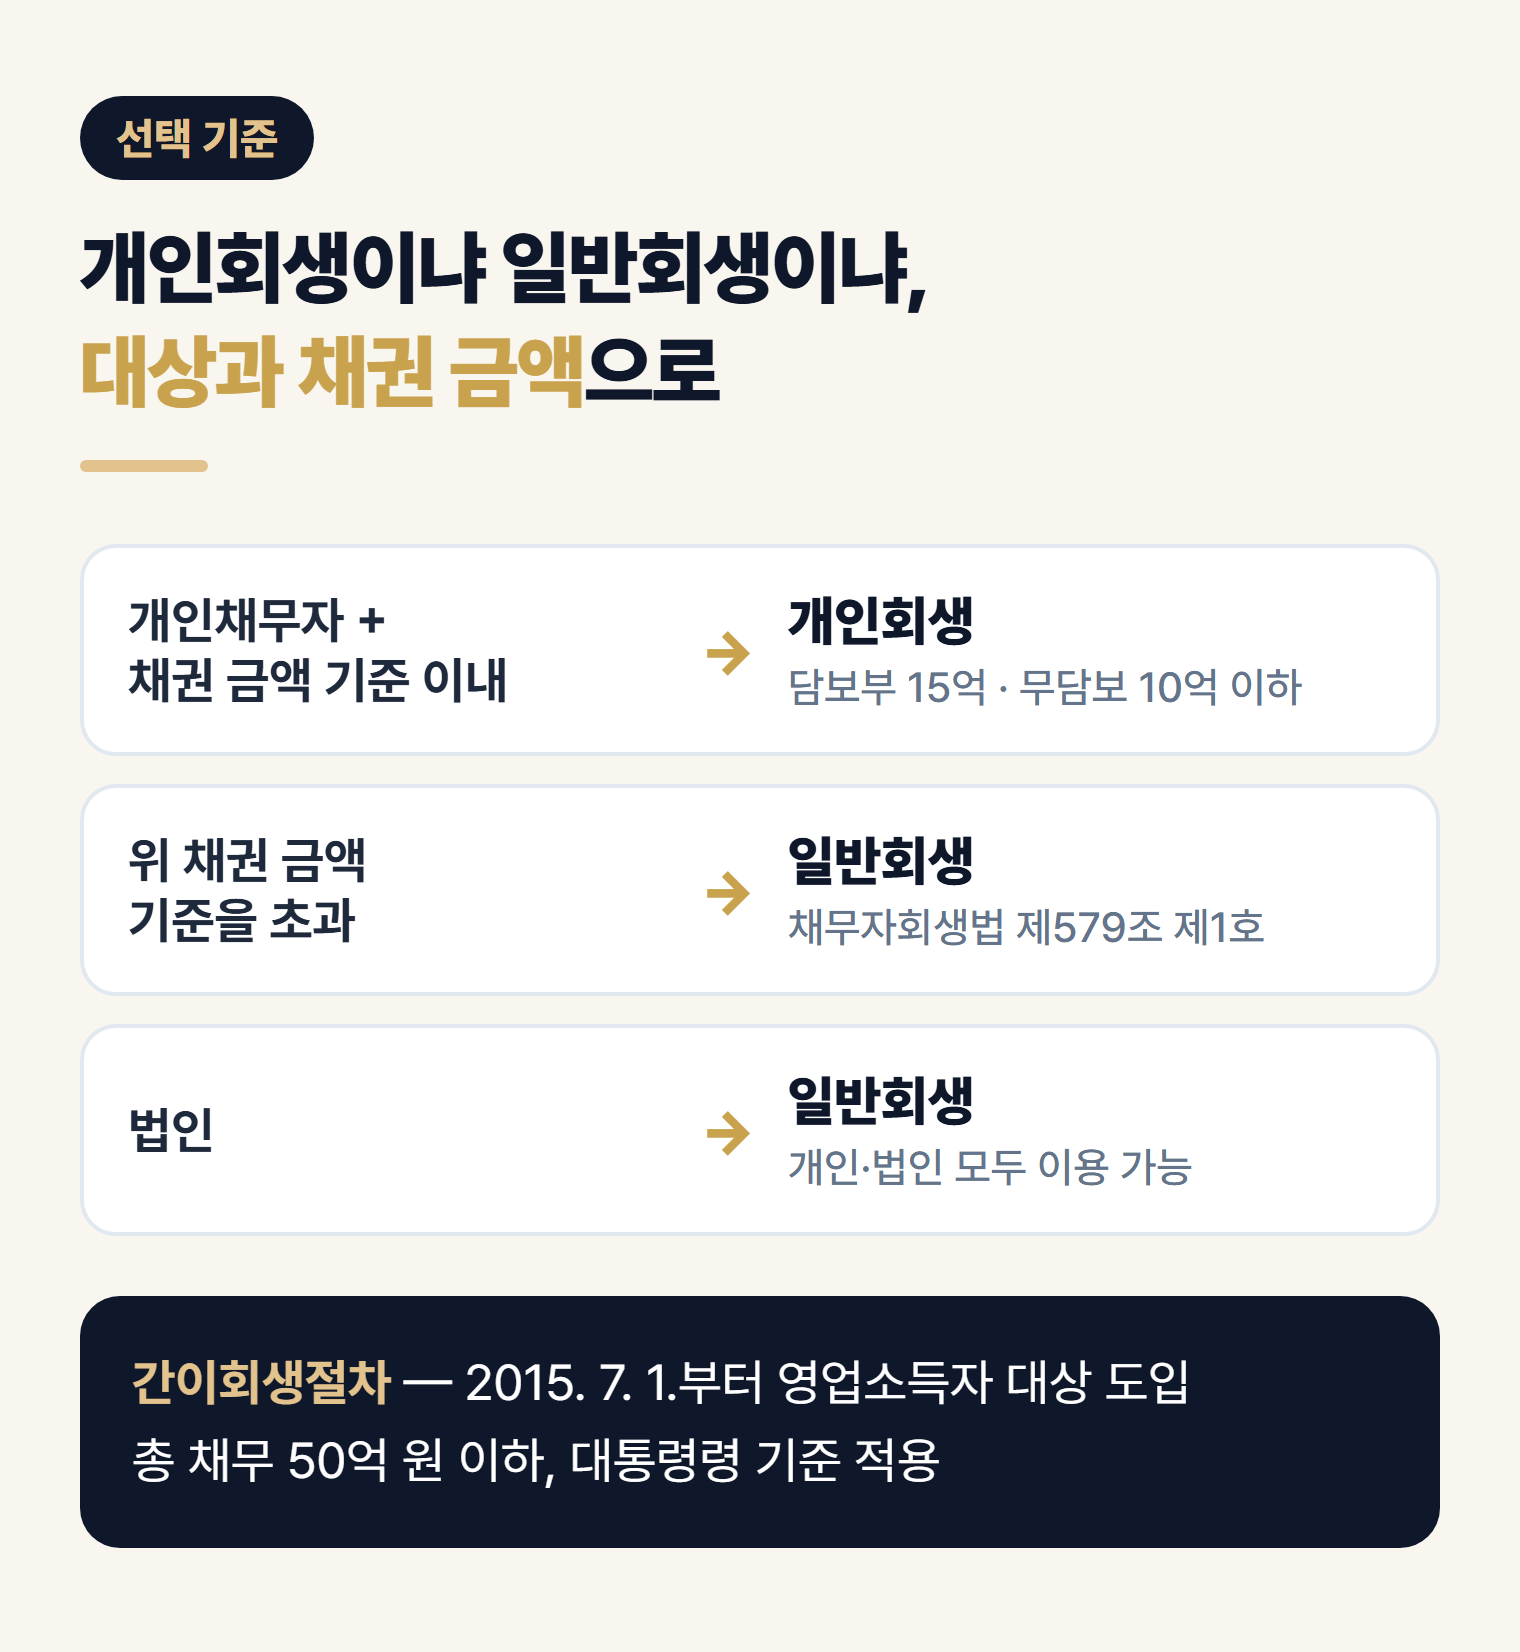
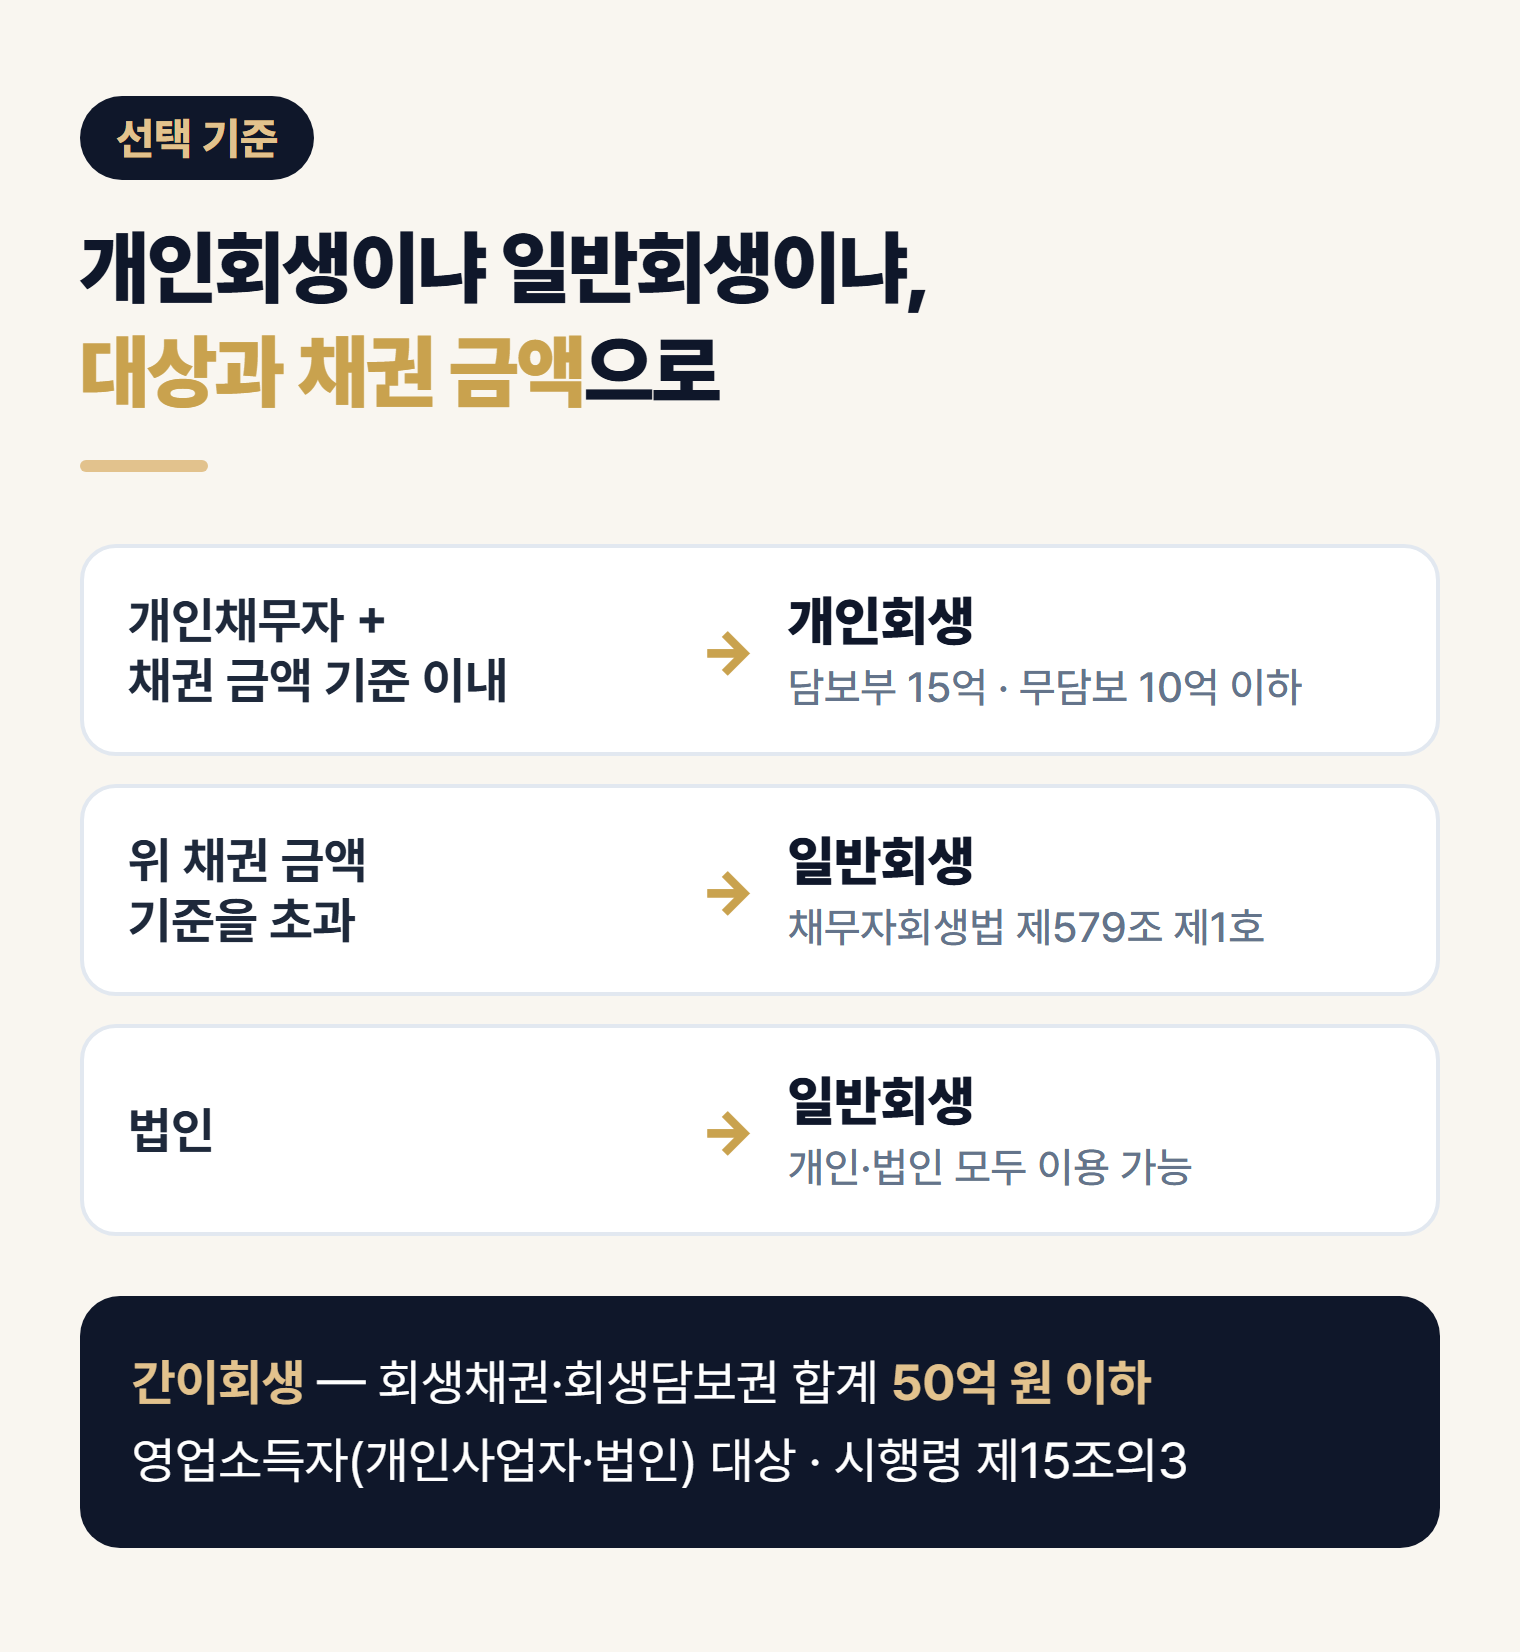
간이회생 기준 문구 정정 — '총 채무' → '회생채권·회생담보권 합계 50억 원 이하'
시행령 제15조의3 근거 추가, 도입(2015, 30억)→상향(2020. 6. 2., 50억) 연혁 병기, 법인도 신청 가능 명시.
본문·인포그래픽(body-1) 함께 수정.

Changed region(s): [[0.0928, 0.8027, 0.8039, 0.8953]]

diff --git a/_board/2025-08-01-개인회생과-일반회생의-차이-유사절차-비교.md b/_board/2025-08-01-개인회생과-일반회생의-차이-유사절차-비교.md
@@ -30,8 +30,9 @@ image: /assets/img/board/rehab-vs-general-rehab-thumbnail.png
 > → 이를 초과하는 경우 **일반회생절차**를 이용해야 합니다  
 (채무자회생법 제579조 제1호)
 
-> 📌 2015. 7. 1.부터 영업소득자 대상 **간이회생절차** 도입  
-총 채무 50억 원 이하, 대통령령 기준 적용 (채무자회생법 제293조의2)
+> 📌 **간이회생절차** — 일반회생보다 절차를 간소화해 영업소득자의 빠른 재기를 돕는 제도입니다.  
+> 신청 당시 **회생채권·회생담보권 합계가 50억 원 이하**인 영업소득자가 이용할 수 있고, 요건을 갖추면 개인사업자뿐 아니라 법인도 신청할 수 있습니다.  
+> (2015. 7. 1. 도입 당시 30억 원 → 2020. 6. 2. 시행령 개정으로 50억 원. 채무자회생법 제293조의2, 같은 법 시행령 제15조의3)
 
 ---
 
